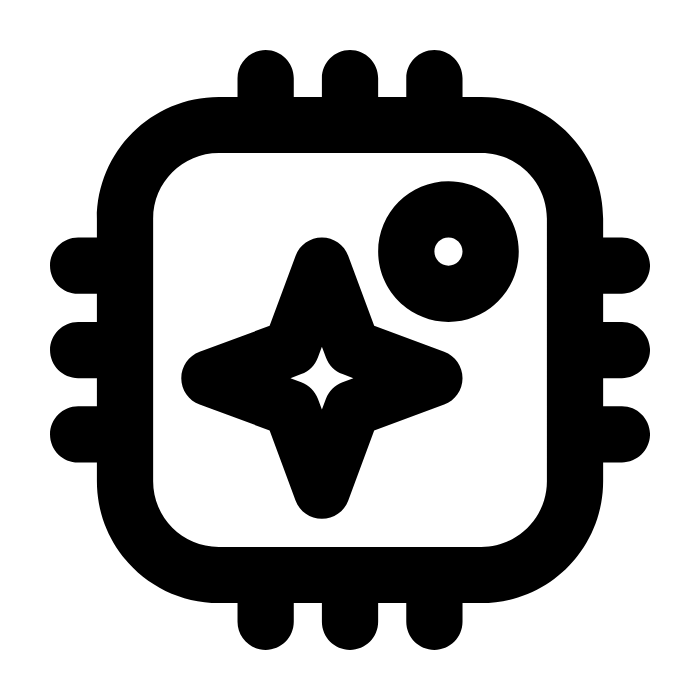
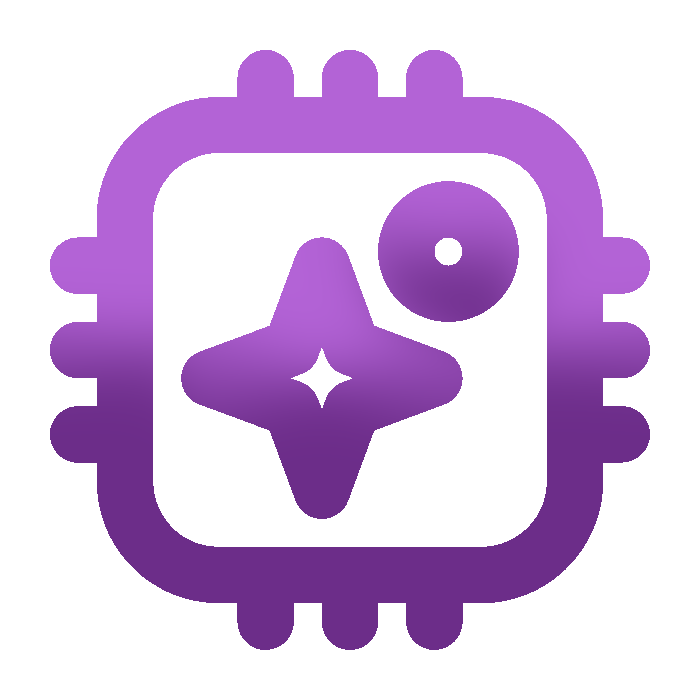
- Added Image Name to PC Entity - Added Image Name to PC View Models - Added Images of 6 PCs to ~/imgs/pcs folder - PC Index View (PCs Page): Replaced table of pcs with a grid of pcs including pc image - Order Details View: Replaced the table of pcs with a grid of pcs including pc image

diff --git a/ChromeRigs.MVC/wwwroot/css/site.css b/ChromeRigs.MVC/wwwroot/css/site.css
@@ -72,3 +72,7 @@ body {
 .color-crypto {
     color: #f79413 !important;
 }
+
+.chromerigs-title {
+    color: #b363d6 !important;
+}

diff --git a/ChromeRigs.MVC/Data/Migrations/20240928175222_PC_ImageName.Designer.cs b/ChromeRigs.MVC/Data/Migrations/20240928175222_PC_ImageName.Designer.cs
@@ -4,6 +4,7 @@ using ChromeRigs.MVC.Data;
 using Microsoft.EntityFrameworkCore;
 using Microsoft.EntityFrameworkCore.Infrastructure;
 using Microsoft.EntityFrameworkCore.Metadata;
+using Microsoft.EntityFrameworkCore.Migrations;
 using Microsoft.EntityFrameworkCore.Storage.ValueConversion;
 
 #nullable disable
@@ -11,9 +12,11 @@ using Microsoft.EntityFrameworkCore.Storage.ValueConversion;
 namespace ChromeRigs.MVC.Data.Migrations
 {
     [DbContext(typeof(ApplicationDbContext))]
-    partial class ApplicationDbContextModelSnapshot : ModelSnapshot
+    [Migration("20240928175222_PC_ImageName")]
+    partial class PC_ImageName
     {
-        protected override void BuildModel(ModelBuilder modelBuilder)
+        /// <inheritdoc />
+        protected override void BuildTargetModel(ModelBuilder modelBuilder)
         {
 #pragma warning disable 612, 618
             modelBuilder
@@ -123,6 +126,7 @@ namespace ChromeRigs.MVC.Data.Migrations
                         .HasColumnType("nvarchar(max)");
 
                     b.Property<string>("ImageName")
+                        .IsRequired()
                         .HasColumnType("nvarchar(max)");
 
                     b.Property<string>("Name")

diff --git a/ChromeRigs.MVC/Data/Migrations/20240928190906_PC_ImageName2.cs b/ChromeRigs.MVC/Data/Migrations/20240928190906_PC_ImageName2.cs
@@ -1,0 +1,36 @@
+using Microsoft.EntityFrameworkCore.Migrations;
+
+#nullable disable
+
+namespace ChromeRigs.MVC.Data.Migrations
+{
+    /// <inheritdoc />
+    public partial class PC_ImageName2 : Migration
+    {
+        /// <inheritdoc />
+        protected override void Up(MigrationBuilder migrationBuilder)
+        {
+            migrationBuilder.AlterColumn<string>(
+                name: "ImageName",
+                table: "PCs",
+                type: "nvarchar(max)",
+                nullable: true,
+                oldClrType: typeof(string),
+                oldType: "nvarchar(max)");
+        }
+
+        /// <inheritdoc />
+        protected override void Down(MigrationBuilder migrationBuilder)
+        {
+            migrationBuilder.AlterColumn<string>(
+                name: "ImageName",
+                table: "PCs",
+                type: "nvarchar(max)",
+                nullable: false,
+                defaultValue: "",
+                oldClrType: typeof(string),
+                oldType: "nvarchar(max)",
+                oldNullable: true);
+        }
+    }
+}

diff --git a/ChromeRigs.MVC/Data/Migrations/20240928205100_PC_MIGRATION_IMAGENAMEEE.Designer.cs b/ChromeRigs.MVC/Data/Migrations/20240928205100_PC_MIGRATION_IMAGENAMEEE.Designer.cs
@@ -4,6 +4,7 @@ using ChromeRigs.MVC.Data;
 using Microsoft.EntityFrameworkCore;
 using Microsoft.EntityFrameworkCore.Infrastructure;
 using Microsoft.EntityFrameworkCore.Metadata;
+using Microsoft.EntityFrameworkCore.Migrations;
 using Microsoft.EntityFrameworkCore.Storage.ValueConversion;
 
 #nullable disable
@@ -11,9 +12,11 @@ using Microsoft.EntityFrameworkCore.Storage.ValueConversion;
 namespace ChromeRigs.MVC.Data.Migrations
 {
     [DbContext(typeof(ApplicationDbContext))]
-    partial class ApplicationDbContextModelSnapshot : ModelSnapshot
+    [Migration("20240928205100_PC_MIGRATION_IMAGENAMEEE")]
+    partial class PC_MIGRATION_IMAGENAMEEE
     {
-        protected override void BuildModel(ModelBuilder modelBuilder)
+        /// <inheritdoc />
+        protected override void BuildTargetModel(ModelBuilder modelBuilder)
         {
 #pragma warning disable 612, 618
             modelBuilder

diff --git a/ChromeRigs.MVC/Data/Migrations/20240928190906_PC_ImageName2.Designer.cs b/ChromeRigs.MVC/Data/Migrations/20240928190906_PC_ImageName2.Designer.cs
@@ -4,6 +4,7 @@ using ChromeRigs.MVC.Data;
 using Microsoft.EntityFrameworkCore;
 using Microsoft.EntityFrameworkCore.Infrastructure;
 using Microsoft.EntityFrameworkCore.Metadata;
+using Microsoft.EntityFrameworkCore.Migrations;
 using Microsoft.EntityFrameworkCore.Storage.ValueConversion;
 
 #nullable disable
@@ -11,9 +12,11 @@ using Microsoft.EntityFrameworkCore.Storage.ValueConversion;
 namespace ChromeRigs.MVC.Data.Migrations
 {
     [DbContext(typeof(ApplicationDbContext))]
-    partial class ApplicationDbContextModelSnapshot : ModelSnapshot
+    [Migration("20240928190906_PC_ImageName2")]
+    partial class PC_ImageName2
     {
-        protected override void BuildModel(ModelBuilder modelBuilder)
+        /// <inheritdoc />
+        protected override void BuildTargetModel(ModelBuilder modelBuilder)
         {
 #pragma warning disable 612, 618
             modelBuilder

diff --git a/ChromeRigs.MVC/Data/Migrations/20240928175222_PC_ImageName.cs b/ChromeRigs.MVC/Data/Migrations/20240928175222_PC_ImageName.cs
@@ -1,0 +1,29 @@
+using Microsoft.EntityFrameworkCore.Migrations;
+
+#nullable disable
+
+namespace ChromeRigs.MVC.Data.Migrations
+{
+    /// <inheritdoc />
+    public partial class PC_ImageName : Migration
+    {
+        /// <inheritdoc />
+        protected override void Up(MigrationBuilder migrationBuilder)
+        {
+            migrationBuilder.AddColumn<string>(
+                name: "ImageName",
+                table: "PCs",
+                type: "nvarchar(max)",
+                nullable: false,
+                defaultValue: "");
+        }
+
+        /// <inheritdoc />
+        protected override void Down(MigrationBuilder migrationBuilder)
+        {
+            migrationBuilder.DropColumn(
+                name: "ImageName",
+                table: "PCs");
+        }
+    }
+}

diff --git a/ChromeRigs.MVC/Models/PCs/PCDetailsViewModel.cs b/ChromeRigs.MVC/Models/PCs/PCDetailsViewModel.cs
@@ -1,4 +1,5 @@
-using System.ComponentModel.DataAnnotations.Schema;
+using System.ComponentModel.DataAnnotations;
+using System.ComponentModel.DataAnnotations.Schema;
 
 namespace ChromeRigs.MVC.Models.PCs
 {
@@ -12,6 +13,9 @@ namespace ChromeRigs.MVC.Models.PCs
 
         [Column(TypeName = "decimal(4, 2)")]
         public decimal Price { get; set; }
+
+        [Display(Name = "Image")]
+        public string? ImageName { get; set; }
 
         public List<Components.ComponentViewModel> Components { get; set; } = [];
     }

diff --git a/ChromeRigs.MVC/Data/Migrations/20240928205100_PC_MIGRATION_IMAGENAMEEE.cs b/ChromeRigs.MVC/Data/Migrations/20240928205100_PC_MIGRATION_IMAGENAMEEE.cs
@@ -1,0 +1,22 @@
+using Microsoft.EntityFrameworkCore.Migrations;
+
+#nullable disable
+
+namespace ChromeRigs.MVC.Data.Migrations
+{
+    /// <inheritdoc />
+    public partial class PC_MIGRATION_IMAGENAMEEE : Migration
+    {
+        /// <inheritdoc />
+        protected override void Up(MigrationBuilder migrationBuilder)
+        {
+
+        }
+
+        /// <inheritdoc />
+        protected override void Down(MigrationBuilder migrationBuilder)
+        {
+
+        }
+    }
+}

diff --git a/ChromeRigs.MVC/Models/PCs/PCViewModel.cs b/ChromeRigs.MVC/Models/PCs/PCViewModel.cs
@@ -1,4 +1,5 @@
-using System.ComponentModel.DataAnnotations.Schema;
+using System.ComponentModel.DataAnnotations;
+using System.ComponentModel.DataAnnotations.Schema;
 
 namespace ChromeRigs.MVC.Models.PCs
 {
@@ -12,6 +13,9 @@ namespace ChromeRigs.MVC.Models.PCs
 
         [Column(TypeName = "decimal(4, 2)")]
         public decimal Price { get; set; }
+
+        [Display(Name = "Image")]
+        public string? ImageName { get; set; }
 
     }
 }

diff --git a/ChromeRigs.MVC/Controllers/CustomersController.cs b/ChromeRigs.MVC/Controllers/CustomersController.cs
@@ -126,7 +126,7 @@ namespace ChromeRigs.MVC.Controllers
 
                 try
                 {
-                    _context.Update(createUpdateCustomerViewModel);
+                    _context.Update(customer);
                     await _context.SaveChangesAsync();
                 }
                 catch (DbUpdateConcurrencyException)

diff --git a/ChromeRigs.Entities/PCs/PC.cs b/ChromeRigs.Entities/PCs/PC.cs
@@ -15,6 +15,8 @@ namespace ChromeRigs.Entities.PCs
         [Column(TypeName = "decimal(18, 2)")]
         public decimal Price { get; set; }
 
+        public string? ImageName { get; set; }
+
         public List<Component> Components { get; set; } = [];
 
         public List<Order> Orders { get; set; } = [];

diff --git a/ChromeRigs.Entities/Orders/Order.cs b/ChromeRigs.Entities/Orders/Order.cs
@@ -23,6 +23,7 @@ namespace ChromeRigs.Entities.Orders
 
 
         public int CustomerId { get; set; }
+
         public Customer Customer { get; set; }
 
         public List<PC> PCs { get; set; } = [];
